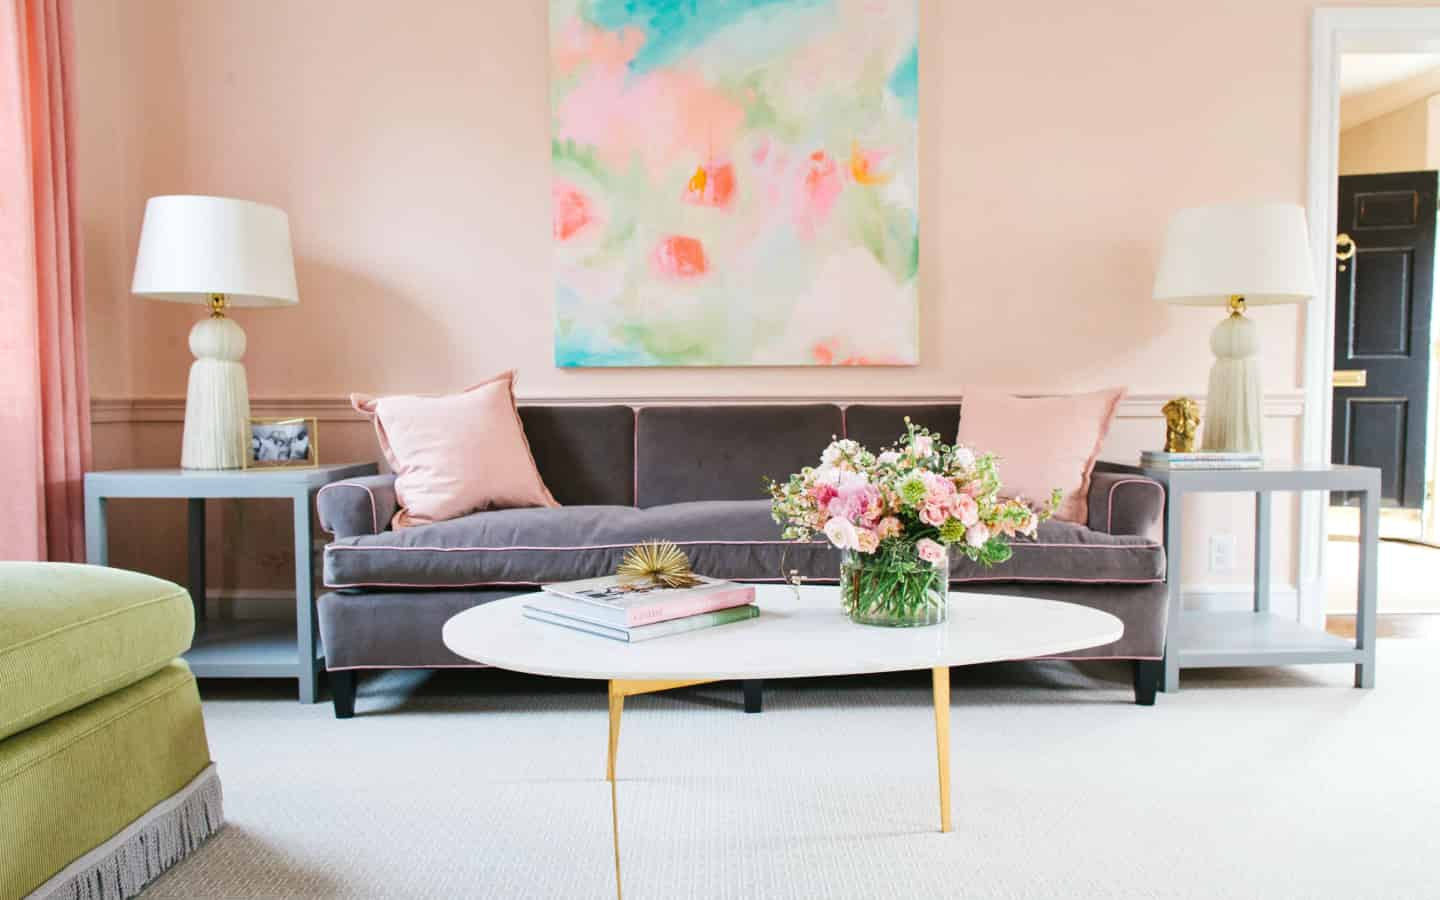
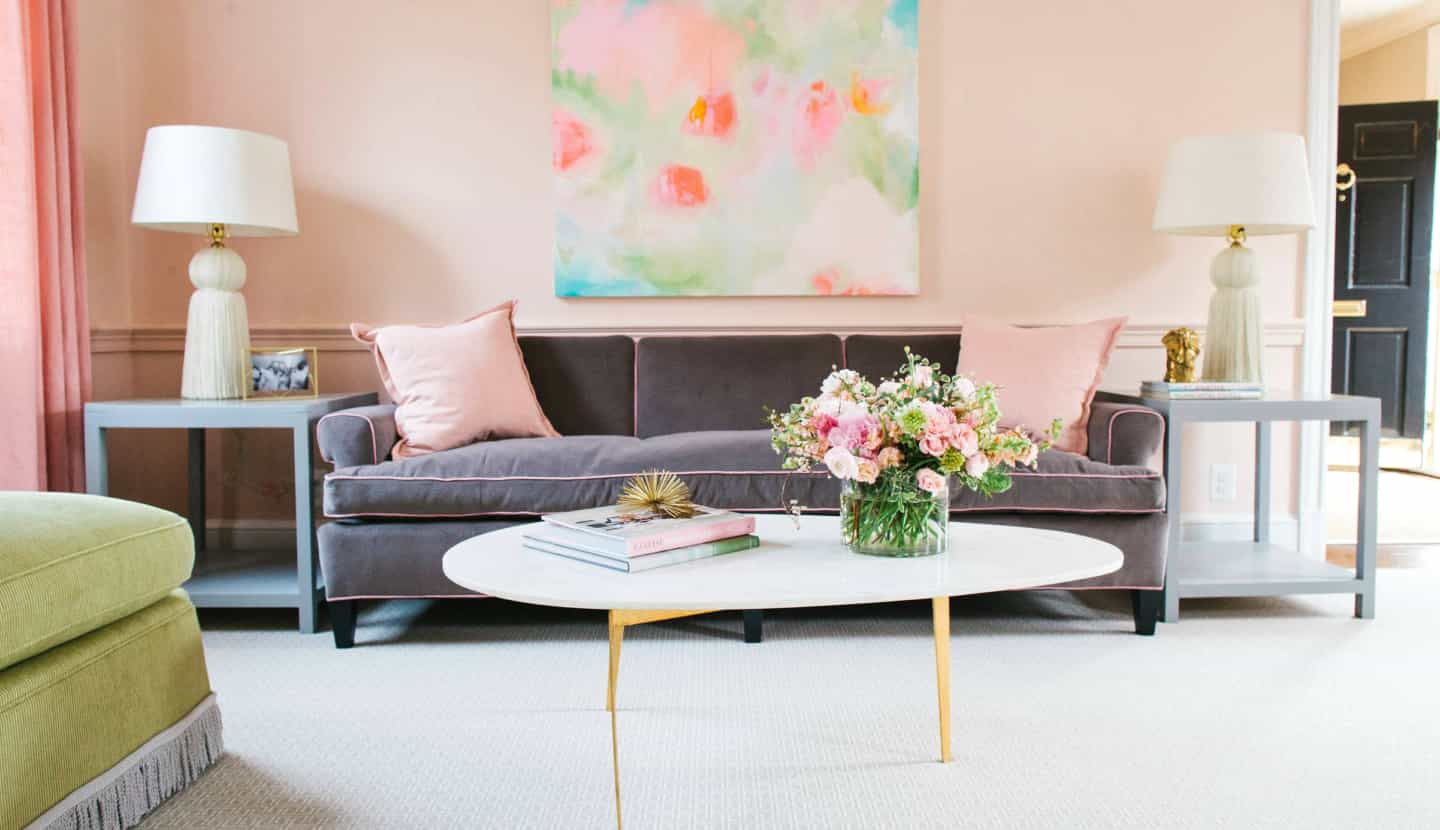
landing-page was made responsive

diff --git a/src/landing-page.less b/src/landing-page.less
@@ -5,9 +5,11 @@
 @import "components/primary-search/primary-search.less";
 @import "components/toxin-big-footer/toxin-big-footer.less";
 
+@LandingCenteredTh: 800px;
+@LandingMinimized: 380px;
 
 .landing-page {
-    width: 1440px; // debug
+    // width: 1440px; // debug
     padding: 0px;
     margin: 0px;
 
@@ -19,6 +21,15 @@
         background-position: center;
         border-top: solid 1px transparent;
         margin-top: -1px;
+
+        @media (max-width: @LandingCenteredTh) {
+            min-height: 550px;;
+        }
+
+        @media (max-width: @LandingMinimized) {
+            min-height: 0;
+            background: none;
+        }
     }
 
     &__motto {
@@ -29,10 +40,40 @@
         min-height: 50px;
         .text;
         text-align: right;
+
+        @media (max-width: @LandingCenteredTh) {
+            right: 40px;
+        }
+
+        @media (max-width: @LandingMinimized) {
+            position: static;
+            width: 100%;
+            max-width: none;
+            min-height: 200px;
+            text-align: center;
+            background-image: url(img/landing-bg-sm.jpg);
+            background-size: cover;
+            background-position: center;
+            text-shadow: 0 0 3px white;
+        }
     }
 
     &__primary-search {
         margin-top: 70px;
         margin-left: 139px;
+
+        @media (max-width: @LandingCenteredTh) {
+            margin-left: auto;
+            margin-right: auto;
+        }
+
+        @media (max-width: @LandingMinimized) {
+            margin-top: 0px;
+            padding-left: 5px;
+            padding-right: 5px;
+            width: 100%;
+            border-radius: 0;
+            //box-shadow: none;
+        }
     }
 }
